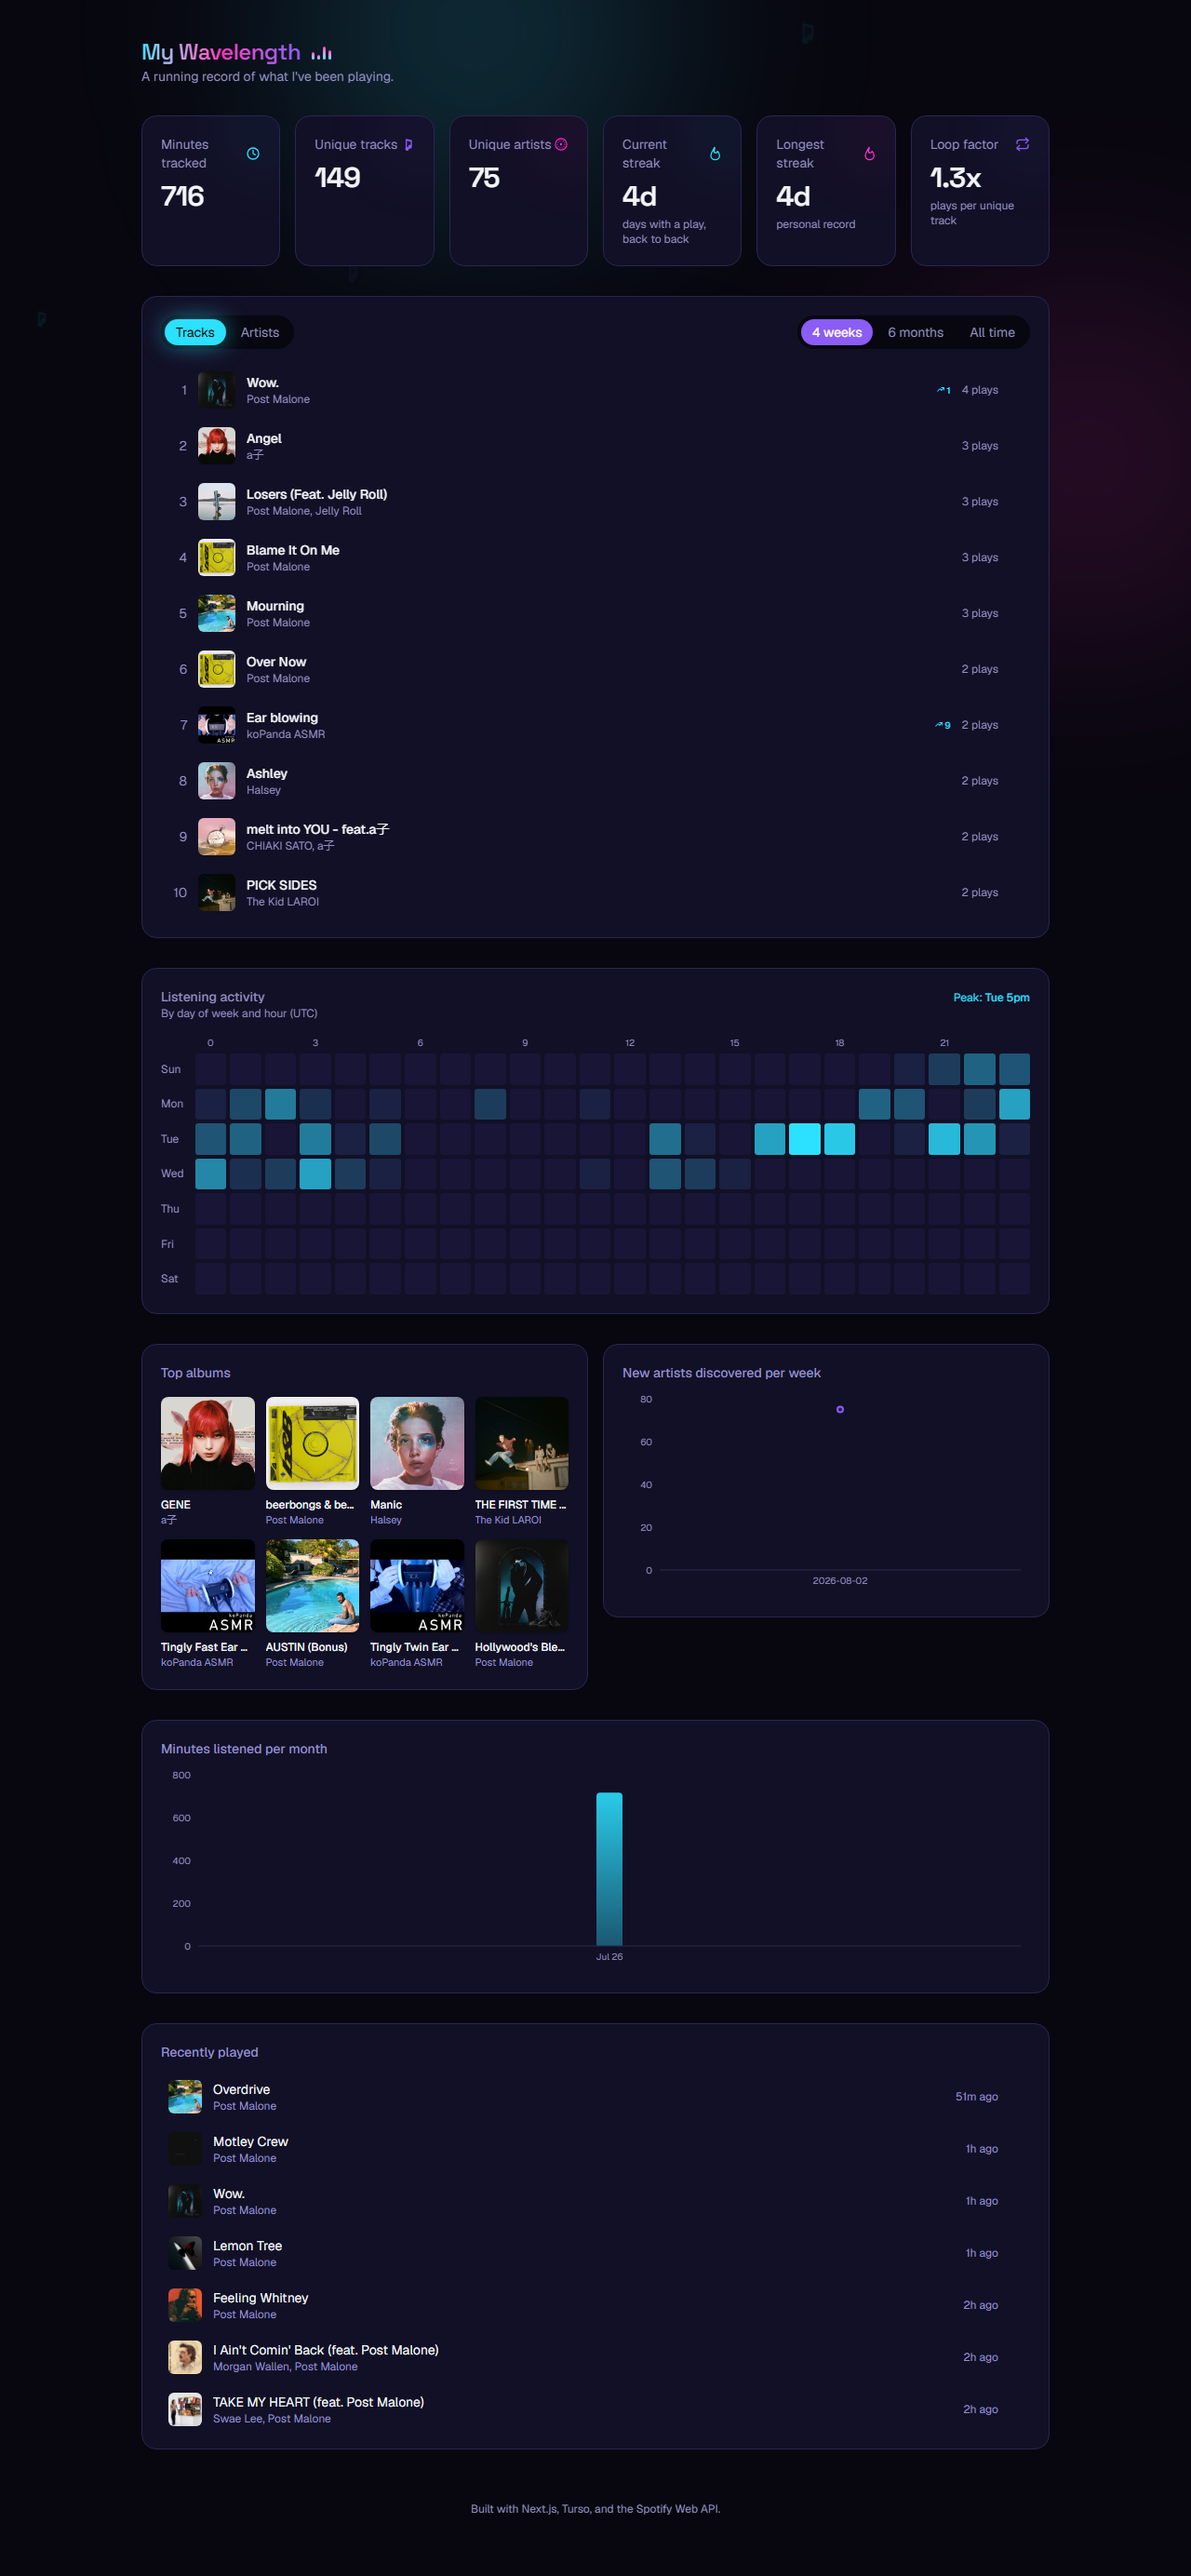
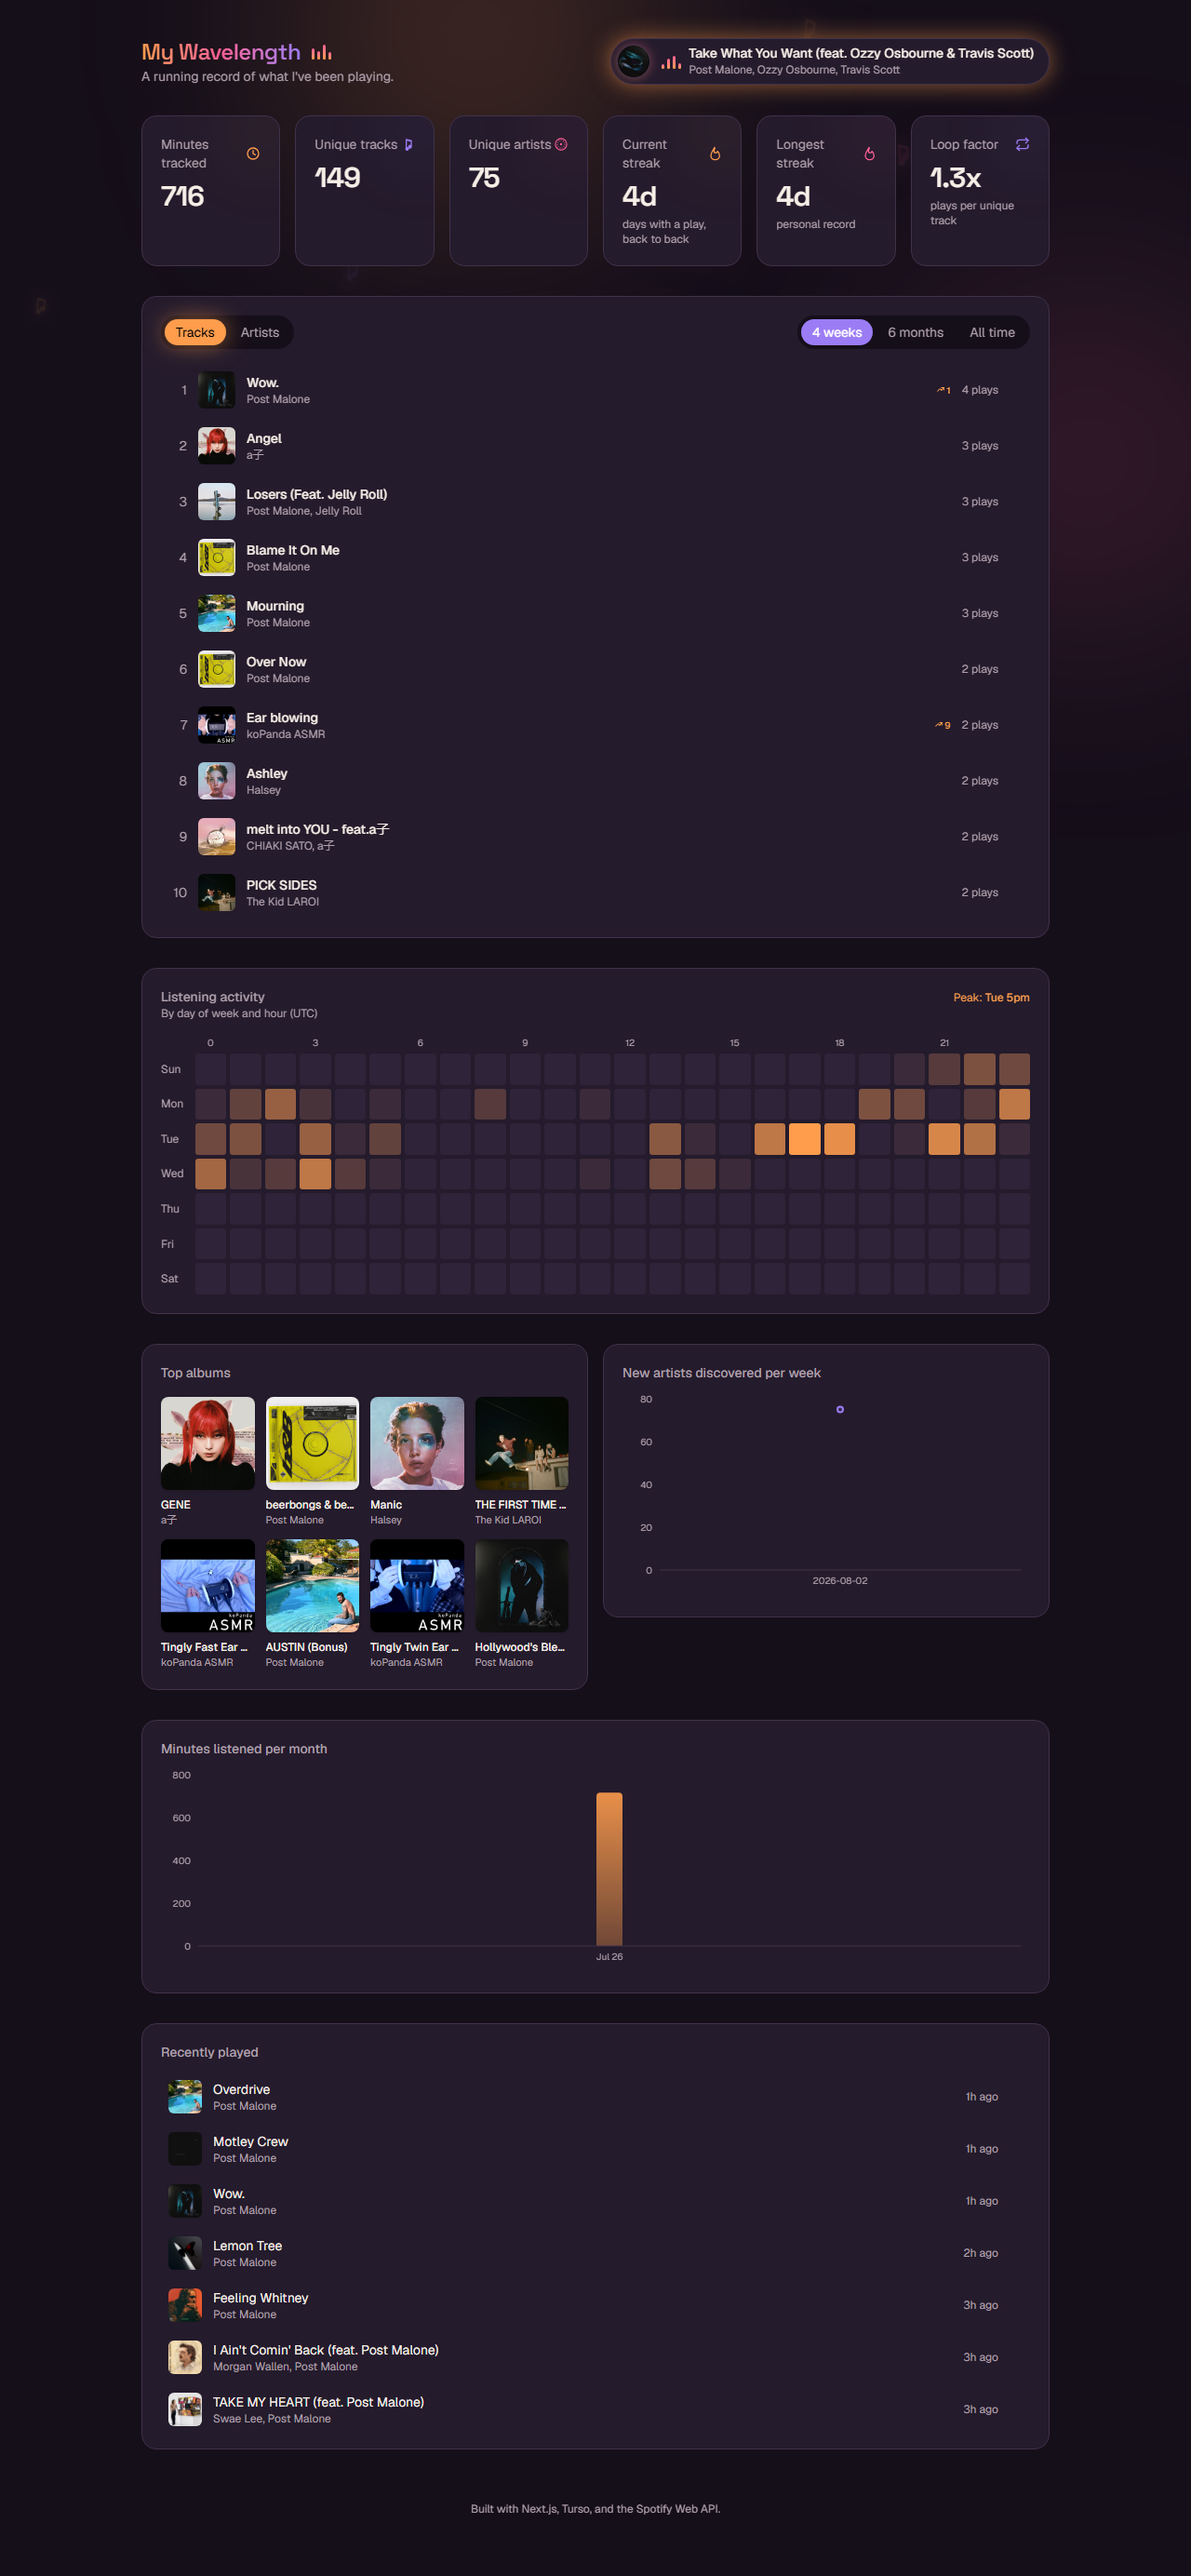
Refresh README screenshot and copy for warm-theme retone

diff --git a/README.md b/README.md
@@ -1,7 +1,7 @@
 # My Wavelength — Personal Spotify Analytics Dashboard
 
 A personal dashboard that continuously ingests my own Spotify listening history and turns it into a
-neon, animated analytics dashboard: top tracks/artists/albums (with day-over-day rank-change
+warm, electric, animated analytics dashboard: top tracks/artists/albums (with day-over-day rank-change
 badges), a day/hour listening activity heatmap with a peak-time callout, an artist-discovery trend
 line, a monthly listening-minutes chart, streak/loop-factor stats, a recently-played feed with a
 "just played" pulse, and a live "now playing" widget with a spinning vinyl — every track/artist/
